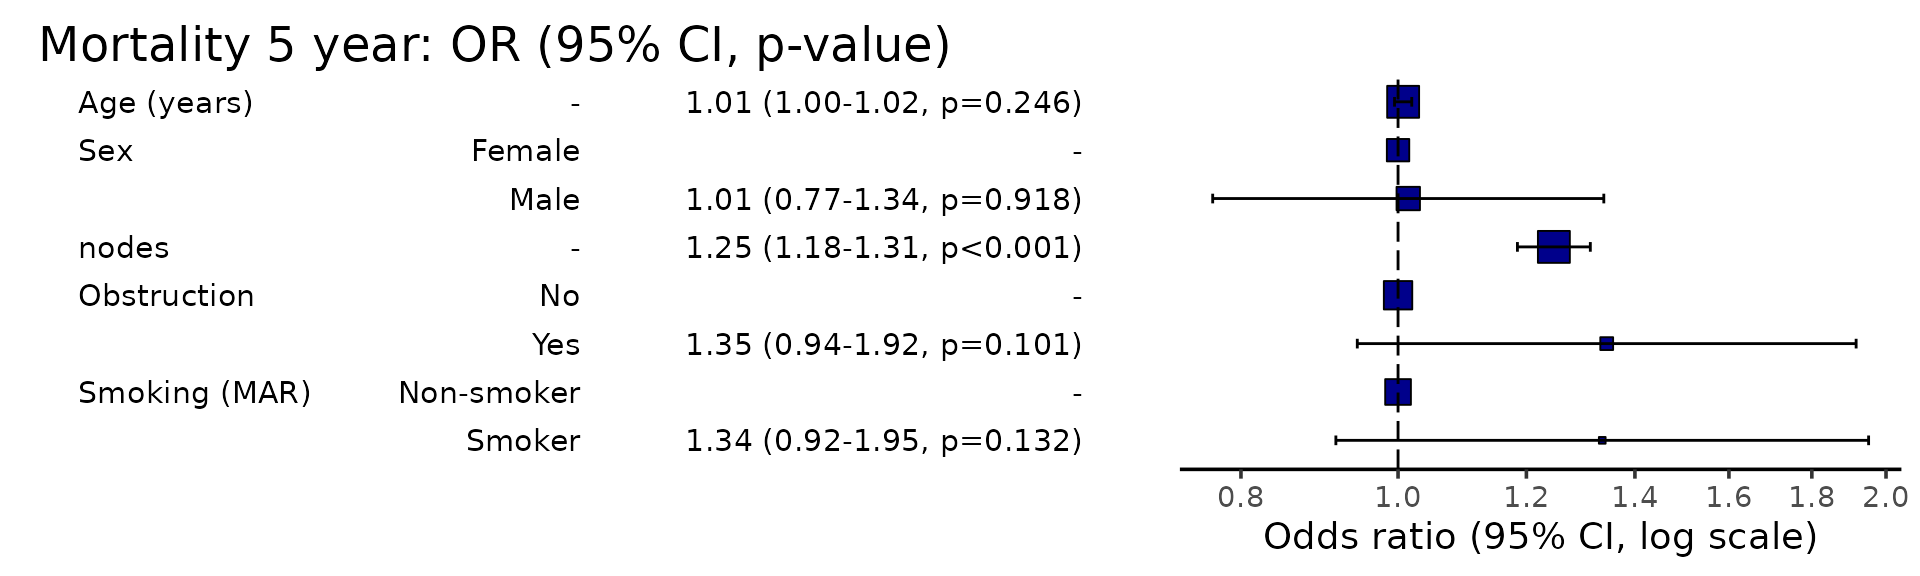
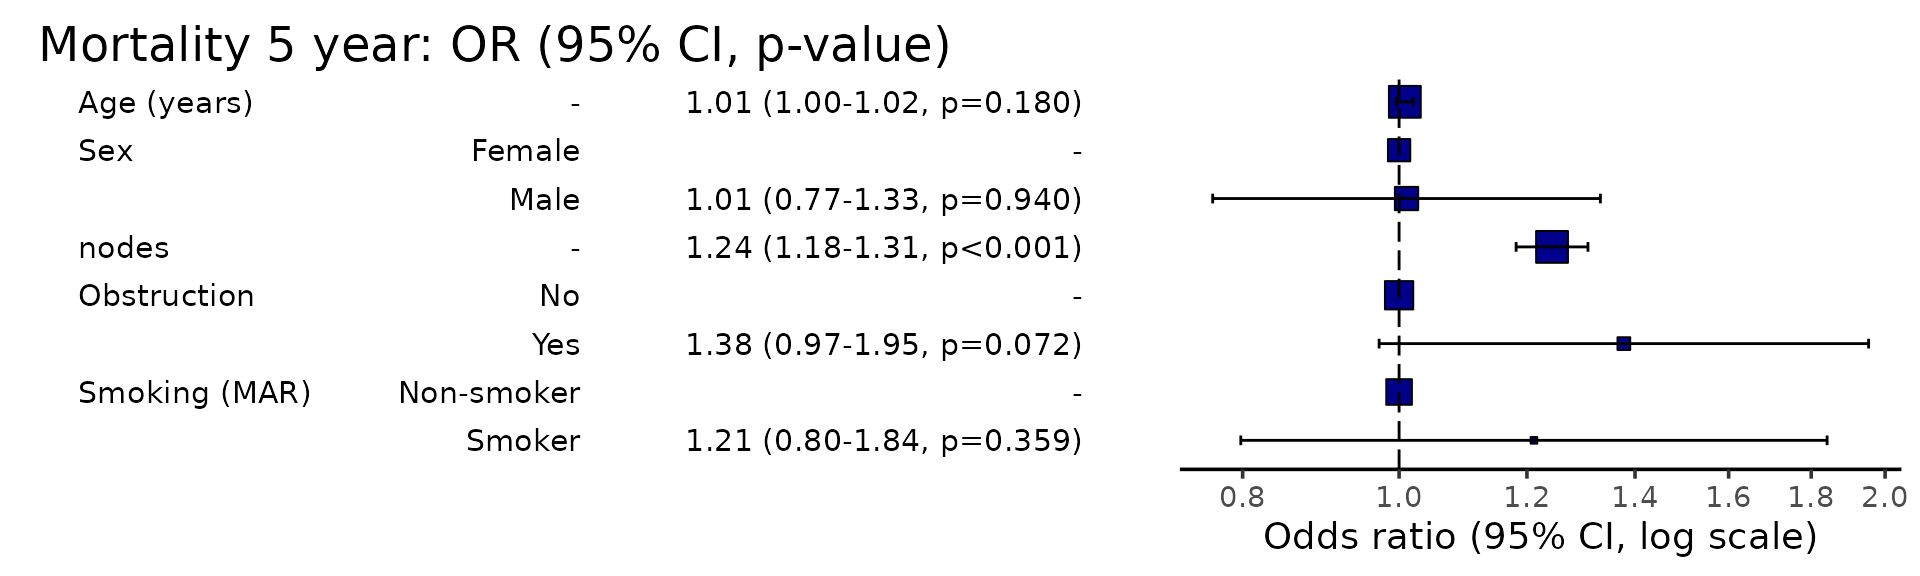
Web update

diff --git a/docs/articles/missing.html b/docs/articles/missing.html
@@ -633,45 +633,51 @@
   <span class="st">"nodes"</span>, <span class="st">"obstruct.factor"</span>, <span class="st">"smoking_mar"</span><span class="op">)</span>
 <span class="va">dependent</span> <span class="op">=</span> <span class="st">"mort_5yr"</span>
 
-<span class="co"># Choose not to impute missing values</span>
-<span class="co"># for explanatory variable of interest and</span>
-<span class="co"># outcome variable. </span>
-<span class="co"># But include in algorithm for imputation.</span>
+<span class="co"># Choose whether to impute missing values</span>
+<span class="co"># from particular variables, e.g. explanatory variable of interest</span>
+<span class="co"># or outcome variable. </span>
+<span class="co"># Outcome often imputed as best practice, dropped here for demonstration. </span>
 <span class="va">colon_s</span> <span class="op"><a href="../reference/pipe.html">%&gt;%</a></span> 
     <span class="fu"><a href="https://dplyr.tidyverse.org/reference/select.html" class="external-link">select</a></span><span class="op">(</span><span class="va">dependent</span>, <span class="va">explanatory</span><span class="op">)</span> <span class="op"><a href="../reference/pipe.html">%&gt;%</a></span> 
     <span class="fu"><a href="../reference/missing_predictorMatrix.html">missing_predictorMatrix</a></span><span class="op">(</span>
-        drop_from_imputed <span class="op">=</span> <span class="fu"><a href="https://rdrr.io/r/base/c.html" class="external-link">c</a></span><span class="op">(</span><span class="st">"obstruct.factor"</span>, <span class="st">"mort_5yr"</span><span class="op">)</span>
+        drop_from_imputed <span class="op">=</span> <span class="fu"><a href="https://rdrr.io/r/base/c.html" class="external-link">c</a></span><span class="op">(</span><span class="st">"mort_5yr"</span><span class="op">)</span>,
+        drop_from_imputer <span class="op">=</span> <span class="st">""</span>
         <span class="op">)</span> <span class="op">-&gt;</span> <span class="va">predM</span>
+
+<span class="co"># This is needed to drop from imputed</span>
+<span class="va">m0</span> <span class="op">=</span> <span class="fu"><a href="https://amices.org/mice/reference/mice.html" class="external-link">mice</a></span><span class="op">(</span><span class="va">colon_s</span> <span class="op"><a href="../reference/pipe.html">%&gt;%</a></span> 
+            <span class="fu"><a href="https://dplyr.tidyverse.org/reference/select.html" class="external-link">select</a></span><span class="op">(</span><span class="va">dependent</span>, <span class="va">explanatory</span><span class="op">)</span>, maxit<span class="op">=</span><span class="fl">0</span><span class="op">)</span>
+<span class="va">m0</span><span class="op">$</span><span class="va">method</span><span class="op">[</span><span class="fu"><a href="https://rdrr.io/r/base/c.html" class="external-link">c</a></span><span class="op">(</span><span class="st">"mort_5yr"</span><span class="op">)</span><span class="op">]</span> <span class="op">=</span> <span class="st">""</span>
 
 <span class="va">fits</span> <span class="op">=</span> <span class="va">colon_s</span> <span class="op"><a href="../reference/pipe.html">%&gt;%</a></span> 
   <span class="fu"><a href="https://dplyr.tidyverse.org/reference/select.html" class="external-link">select</a></span><span class="op">(</span><span class="va">dependent</span>, <span class="va">explanatory</span><span class="op">)</span> <span class="op"><a href="../reference/pipe.html">%&gt;%</a></span> 
   <span class="co"># Usually run imputation with 10 imputed sets, 4 here for demonstration</span>
-  <span class="fu"><a href="https://amices.org/mice/reference/mice.html" class="external-link">mice</a></span><span class="op">(</span>m <span class="op">=</span> <span class="fl">4</span>, predictorMatrix <span class="op">=</span> <span class="va">predM</span><span class="op">)</span> <span class="op"><a href="../reference/pipe.html">%&gt;%</a></span> 
+  <span class="fu"><a href="https://amices.org/mice/reference/mice.html" class="external-link">mice</a></span><span class="op">(</span>m <span class="op">=</span> <span class="fl">4</span>, predictorMatrix <span class="op">=</span> <span class="va">predM</span>, method <span class="op">=</span> <span class="va">m0</span><span class="op">$</span><span class="va">method</span><span class="op">)</span> <span class="op"><a href="../reference/pipe.html">%&gt;%</a></span> 
   <span class="co"># Run logistic regression on each imputed set</span>
   <span class="fu"><a href="https://rdrr.io/r/base/with.html" class="external-link">with</a></span><span class="op">(</span><span class="fu"><a href="https://rdrr.io/r/stats/glm.html" class="external-link">glm</a></span><span class="op">(</span><span class="fu"><a href="https://rdrr.io/r/stats/formula.html" class="external-link">formula</a></span><span class="op">(</span><span class="fu"><a href="../reference/ff_formula.html">ff_formula</a></span><span class="op">(</span><span class="va">dependent</span>, <span class="va">explanatory</span><span class="op">)</span><span class="op">)</span>, 
     family<span class="op">=</span><span class="st">"binomial"</span><span class="op">)</span><span class="op">)</span>
 <span class="co">#&gt; </span>
 <span class="co">#&gt;  iter imp variable</span>
-<span class="co">#&gt;   1   1  mort_5yr  nodes  obstruct.factor  smoking_mar</span>
-<span class="co">#&gt;   1   2  mort_5yr  nodes  obstruct.factor  smoking_mar</span>
-<span class="co">#&gt;   1   3  mort_5yr  nodes  obstruct.factor  smoking_mar</span>
-<span class="co">#&gt;   1   4  mort_5yr  nodes  obstruct.factor  smoking_mar</span>
-<span class="co">#&gt;   2   1  mort_5yr  nodes  obstruct.factor  smoking_mar</span>
-<span class="co">#&gt;   2   2  mort_5yr  nodes  obstruct.factor  smoking_mar</span>
-<span class="co">#&gt;   2   3  mort_5yr  nodes  obstruct.factor  smoking_mar</span>
-<span class="co">#&gt;   2   4  mort_5yr  nodes  obstruct.factor  smoking_mar</span>
-<span class="co">#&gt;   3   1  mort_5yr  nodes  obstruct.factor  smoking_mar</span>
-<span class="co">#&gt;   3   2  mort_5yr  nodes  obstruct.factor  smoking_mar</span>
-<span class="co">#&gt;   3   3  mort_5yr  nodes  obstruct.factor  smoking_mar</span>
-<span class="co">#&gt;   3   4  mort_5yr  nodes  obstruct.factor  smoking_mar</span>
-<span class="co">#&gt;   4   1  mort_5yr  nodes  obstruct.factor  smoking_mar</span>
-<span class="co">#&gt;   4   2  mort_5yr  nodes  obstruct.factor  smoking_mar</span>
-<span class="co">#&gt;   4   3  mort_5yr  nodes  obstruct.factor  smoking_mar</span>
-<span class="co">#&gt;   4   4  mort_5yr  nodes  obstruct.factor  smoking_mar</span>
-<span class="co">#&gt;   5   1  mort_5yr  nodes  obstruct.factor  smoking_mar</span>
-<span class="co">#&gt;   5   2  mort_5yr  nodes  obstruct.factor  smoking_mar</span>
-<span class="co">#&gt;   5   3  mort_5yr  nodes  obstruct.factor  smoking_mar</span>
-<span class="co">#&gt;   5   4  mort_5yr  nodes  obstruct.factor  smoking_mar</span>
+<span class="co">#&gt;   1   1  nodes  obstruct.factor  smoking_mar</span>
+<span class="co">#&gt;   1   2  nodes  obstruct.factor  smoking_mar</span>
+<span class="co">#&gt;   1   3  nodes  obstruct.factor  smoking_mar</span>
+<span class="co">#&gt;   1   4  nodes  obstruct.factor  smoking_mar</span>
+<span class="co">#&gt;   2   1  nodes  obstruct.factor  smoking_mar</span>
+<span class="co">#&gt;   2   2  nodes  obstruct.factor  smoking_mar</span>
+<span class="co">#&gt;   2   3  nodes  obstruct.factor  smoking_mar</span>
+<span class="co">#&gt;   2   4  nodes  obstruct.factor  smoking_mar</span>
+<span class="co">#&gt;   3   1  nodes  obstruct.factor  smoking_mar</span>
+<span class="co">#&gt;   3   2  nodes  obstruct.factor  smoking_mar</span>
+<span class="co">#&gt;   3   3  nodes  obstruct.factor  smoking_mar</span>
+<span class="co">#&gt;   3   4  nodes  obstruct.factor  smoking_mar</span>
+<span class="co">#&gt;   4   1  nodes  obstruct.factor  smoking_mar</span>
+<span class="co">#&gt;   4   2  nodes  obstruct.factor  smoking_mar</span>
+<span class="co">#&gt;   4   3  nodes  obstruct.factor  smoking_mar</span>
+<span class="co">#&gt;   4   4  nodes  obstruct.factor  smoking_mar</span>
+<span class="co">#&gt;   5   1  nodes  obstruct.factor  smoking_mar</span>
+<span class="co">#&gt;   5   2  nodes  obstruct.factor  smoking_mar</span>
+<span class="co">#&gt;   5   3  nodes  obstruct.factor  smoking_mar</span>
+<span class="co">#&gt;   5   4  nodes  obstruct.factor  smoking_mar</span>
 
 <span class="co"># Examples of extracting metrics from fits</span>
 <span class="co">## AICs</span>
@@ -679,32 +685,32 @@
     <span class="fu"><a href="https://amices.org/mice/reference/getfit.html" class="external-link">getfit</a></span><span class="op">(</span><span class="op">)</span> <span class="op"><a href="../reference/pipe.html">%&gt;%</a></span> 
     <span class="fu">purrr</span><span class="fu">::</span><span class="fu"><a href="https://purrr.tidyverse.org/reference/map.html" class="external-link">map</a></span><span class="op">(</span><span class="va">AIC</span><span class="op">)</span>
 <span class="co">#&gt; [[1]]</span>
-<span class="co">#&gt; [1] 1185.452</span>
+<span class="co">#&gt; [1] 1172.373</span>
 <span class="co">#&gt; </span>
 <span class="co">#&gt; [[2]]</span>
-<span class="co">#&gt; [1] 1187.907</span>
+<span class="co">#&gt; [1] 1170.95</span>
 <span class="co">#&gt; </span>
 <span class="co">#&gt; [[3]]</span>
-<span class="co">#&gt; [1] 1184.212</span>
+<span class="co">#&gt; [1] 1168.909</span>
 <span class="co">#&gt; </span>
 <span class="co">#&gt; [[4]]</span>
-<span class="co">#&gt; [1] 1191.826</span>
+<span class="co">#&gt; [1] 1172.158</span>
 
 <span class="co"># C-statistic</span>
 <span class="va">fits</span> <span class="op"><a href="../reference/pipe.html">%&gt;%</a></span> 
     <span class="fu"><a href="https://amices.org/mice/reference/getfit.html" class="external-link">getfit</a></span><span class="op">(</span><span class="op">)</span> <span class="op"><a href="../reference/pipe.html">%&gt;%</a></span> 
     <span class="fu">purrr</span><span class="fu">::</span><span class="fu"><a href="https://purrr.tidyverse.org/reference/map.html" class="external-link">map</a></span><span class="op">(</span><span class="op">~</span> <span class="fu">pROC</span><span class="fu">::</span><span class="fu"><a href="https://rdrr.io/pkg/pROC/man/roc.html" class="external-link">roc</a></span><span class="op">(</span><span class="va">.x</span><span class="op">$</span><span class="va">y</span>, <span class="va">.x</span><span class="op">$</span><span class="va">fitted</span><span class="op">)</span><span class="op">$</span><span class="va">auc</span><span class="op">)</span>
 <span class="co">#&gt; [[1]]</span>
-<span class="co">#&gt; Area under the curve: 0.6896</span>
+<span class="co">#&gt; Area under the curve: 0.6841</span>
 <span class="co">#&gt; </span>
 <span class="co">#&gt; [[2]]</span>
-<span class="co">#&gt; Area under the curve: 0.6856</span>
+<span class="co">#&gt; Area under the curve: 0.6864</span>
 <span class="co">#&gt; </span>
 <span class="co">#&gt; [[3]]</span>
-<span class="co">#&gt; Area under the curve: 0.6874</span>
+<span class="co">#&gt; Area under the curve: 0.6847</span>
 <span class="co">#&gt; </span>
 <span class="co">#&gt; [[4]]</span>
-<span class="co">#&gt; Area under the curve: 0.6825</span>
+<span class="co">#&gt; Area under the curve: 0.6839</span>
 
   
 <span class="co"># Pool  results</span>
@@ -777,7 +783,7 @@
 <td align="right">1.00 (0.99-1.01, p=0.986)</td>
 <td align="right">1.01 (1.00-1.02, p=0.122)</td>
 <td align="right">1.02 (1.00-1.03, p=0.010)</td>
-<td align="right">1.01 (1.00-1.02, p=0.246)</td>
+<td align="right">1.01 (1.00-1.02, p=0.180)</td>
 </tr>
 <tr class="even">
 <td align="left">Sex</td>
@@ -797,7 +803,7 @@
 <td align="right">0.98 (0.76-1.27, p=0.889)</td>
 <td align="right">0.98 (0.74-1.30, p=0.890)</td>
 <td align="right">0.88 (0.64-1.23, p=0.461)</td>
-<td align="right">1.01 (0.77-1.34, p=0.918)</td>
+<td align="right">1.01 (0.77-1.33, p=0.940)</td>
 </tr>
 <tr class="even">
 <td align="left">nodes</td>
@@ -807,7 +813,7 @@
 <td align="right">1.24 (1.18-1.30, p&lt;0.001)</td>
 <td align="right">1.25 (1.19-1.32, p&lt;0.001)</td>
 <td align="right">1.25 (1.18-1.33, p&lt;0.001)</td>
-<td align="right">1.25 (1.18-1.31, p&lt;0.001)</td>
+<td align="right">1.24 (1.18-1.31, p&lt;0.001)</td>
 </tr>
 <tr class="odd">
 <td align="left">Obstruction</td>
@@ -827,7 +833,7 @@
 <td align="right">1.25 (0.90-1.74, p=0.189)</td>
 <td align="right">1.36 (0.95-1.93, p=0.089)</td>
 <td align="right">1.26 (0.85-1.88, p=0.252)</td>
-<td align="right">1.35 (0.94-1.92, p=0.101)</td>
+<td align="right">1.38 (0.97-1.95, p=0.072)</td>
 </tr>
 <tr class="odd">
 <td align="left">Smoking (MAR)</td>
@@ -847,7 +853,7 @@
 <td align="right">1.12 (0.76-1.65, p=0.563)</td>
 <td align="right">-</td>
 <td align="right">1.25 (0.82-1.89, p=0.300)</td>
-<td align="right">1.34 (0.92-1.95, p=0.132)</td>
+<td align="right">1.21 (0.80-1.84, p=0.359)</td>
 </tr>
 </tbody>
 </table>

diff --git a/docs/reference/summary_factorlist_stratified.html b/docs/reference/summary_factorlist_stratified.html
@@ -135,12 +135,30 @@ Stratify a <code><a href="summary_factorlist.html">summary_factorlist</a></code>
 <span class="r-in"><span class="co"># Single split</span></span>
 <span class="r-in"><span class="va">colon_s</span> <span class="op"><a href="pipe.html">%&gt;%</a></span></span>
 <span class="r-in">  <span class="fu">summary_factorlist_stratified</span><span class="op">(</span><span class="va">dependent</span>, <span class="va">explanatory</span>, split <span class="op">=</span> <span class="fu"><a href="https://rdrr.io/r/base/c.html" class="external-link">c</a></span><span class="op">(</span><span class="st">"sex.factor"</span><span class="op">)</span><span class="op">)</span></span>
-<span class="r-err co"><span class="r-pr">#&gt;</span> <span class="error">Error in summary_factorlist_stratified(., dependent, explanatory, split = c("sex.factor")):</span> object 'explanatory' not found</span>
+<span class="r-out co"><span class="r-pr">#&gt;</span>        label    levels   No|Female  Yes|Female     No|Male    Yes|Male</span>
+<span class="r-out co"><span class="r-pr">#&gt;</span>  Age (years) Mean (SD) 59.5 (12.3) 60.2 (10.2) 60.1 (11.5) 56.7 (15.8)</span>
+<span class="r-out co"><span class="r-pr">#&gt;</span>  Obstruction        No  334 (78.8)   12 (92.3)  381 (83.4)    5 (35.7)</span>
+<span class="r-out co"><span class="r-pr">#&gt;</span>                    Yes   90 (21.2)     1 (7.7)   76 (16.6)    9 (64.3)</span>
 <span class="r-in"></span>
 <span class="r-in"><span class="co"># Double split</span></span>
 <span class="r-in"><span class="va">colon_s</span> <span class="op"><a href="pipe.html">%&gt;%</a></span></span>
 <span class="r-in"> <span class="fu">summary_factorlist_stratified</span><span class="op">(</span><span class="va">dependent</span>, <span class="va">explanatory</span>, split <span class="op">=</span> <span class="fu"><a href="https://rdrr.io/r/base/c.html" class="external-link">c</a></span><span class="op">(</span><span class="st">"sex.factor"</span>, <span class="st">"age.factor"</span><span class="op">)</span><span class="op">)</span></span>
-<span class="r-err co"><span class="r-pr">#&gt;</span> <span class="error">Error in summary_factorlist_stratified(., dependent, explanatory, split = c("sex.factor",     "age.factor")):</span> object 'explanatory' not found</span>
+<span class="r-out co"><span class="r-pr">#&gt;</span>        label    levels No|Female|&lt;40 years Yes|Female|&lt;40 years</span>
+<span class="r-out co"><span class="r-pr">#&gt;</span>  Age (years) Mean (SD)          34.3 (4.5)                     </span>
+<span class="r-out co"><span class="r-pr">#&gt;</span>  Obstruction        No           26 (68.4)              0 (NaN)</span>
+<span class="r-out co"><span class="r-pr">#&gt;</span>                    Yes           12 (31.6)              0 (NaN)</span>
+<span class="r-out co"><span class="r-pr">#&gt;</span>  No|Female|40-59 year Yes|Female|40-59 year No|Female|60+ years</span>
+<span class="r-out co"><span class="r-pr">#&gt;</span>            52.0 (5.5)            51.7 (4.8)          68.7 (5.5)</span>
+<span class="r-out co"><span class="r-pr">#&gt;</span>            123 (77.8)              5 (83.3)          185 (81.1)</span>
+<span class="r-out co"><span class="r-pr">#&gt;</span>             35 (22.2)              1 (16.7)           43 (18.9)</span>
+<span class="r-out co"><span class="r-pr">#&gt;</span>  Yes|Female|60+ years No|Male|&lt;40 years Yes|Male|&lt;40 years No|Male|40-59 year</span>
+<span class="r-out co"><span class="r-pr">#&gt;</span>            67.4 (7.6)        34.6 (4.6)         28.5 (2.1)         52.1 (5.5)</span>
+<span class="r-out co"><span class="r-pr">#&gt;</span>             7 (100.0)         21 (72.4)          2 (100.0)         137 (81.1)</span>
+<span class="r-out co"><span class="r-pr">#&gt;</span>               0 (0.0)          8 (27.6)            0 (0.0)          32 (18.9)</span>
+<span class="r-out co"><span class="r-pr">#&gt;</span>  Yes|Male|40-59 year No|Male|60+ years Yes|Male|60+ years</span>
+<span class="r-out co"><span class="r-pr">#&gt;</span>           47.8 (4.1)        68.2 (5.6)         68.2 (5.7)</span>
+<span class="r-out co"><span class="r-pr">#&gt;</span>              0 (0.0)        223 (86.1)           3 (37.5)</span>
+<span class="r-out co"><span class="r-pr">#&gt;</span>            4 (100.0)         36 (13.9)           5 (62.5)</span>
 </code></pre></div>
     </div>
   </div>

diff --git a/docs/articles/bootstrap.html b/docs/articles/bootstrap.html
@@ -159,10 +159,10 @@
     R<span class="op">=</span><span class="fl">100</span>, boot_compare <span class="op">=</span> <span class="cn">FALSE</span>,
     digits <span class="op">=</span> <span class="fu"><a href="https://rdrr.io/r/base/c.html" class="external-link">c</a></span><span class="op">(</span><span class="fl">2</span>,<span class="fl">3</span><span class="op">)</span><span class="op">)</span>
 <span class="co">#&gt;         Age    Extent of spread Perforation Predicted probability of death</span>
-<span class="co">#&gt; 1 &lt;40 years           Submucosa          No            0.28 (0.06 to 0.48)</span>
-<span class="co">#&gt; 2 &lt;40 years           Submucosa         Yes            0.29 (0.07 to 0.63)</span>
-<span class="co">#&gt; 3 &lt;40 years Adjacent structures          No            0.71 (0.53 to 0.88)</span>
-<span class="co">#&gt; 4 &lt;40 years Adjacent structures         Yes            0.72 (0.44 to 0.90)</span></code></pre></div>
+<span class="co">#&gt; 1 &lt;40 years           Submucosa          No            0.28 (0.02 to 0.53)</span>
+<span class="co">#&gt; 2 &lt;40 years           Submucosa         Yes            0.29 (0.04 to 0.54)</span>
+<span class="co">#&gt; 3 &lt;40 years Adjacent structures          No            0.71 (0.51 to 0.86)</span>
+<span class="co">#&gt; 4 &lt;40 years Adjacent structures         Yes            0.72 (0.48 to 0.88)</span></code></pre></div>
 <p>Note that the number of simulations (<code>R</code>) here is low for demonstration purposes. You should expect to use 1000 to 10000 to ensure you have stable estimates.</p>
 </div>
 <div class="section level2">
@@ -186,15 +186,15 @@
     <span class="co">#compare_name = "Absolute risk difference",</span>
     R<span class="op">=</span><span class="fl">100</span>, digits <span class="op">=</span> <span class="fu"><a href="https://rdrr.io/r/base/c.html" class="external-link">c</a></span><span class="op">(</span><span class="fl">2</span>,<span class="fl">3</span><span class="op">)</span><span class="op">)</span>
 <span class="co">#&gt;         Age    Extent of spread Perforation Predicted probability of death</span>
-<span class="co">#&gt; 1 &lt;40 years           Submucosa          No            0.28 (0.08 to 0.53)</span>
-<span class="co">#&gt; 2 &lt;40 years           Submucosa         Yes            0.29 (0.09 to 0.60)</span>
-<span class="co">#&gt; 3 &lt;40 years Adjacent structures          No            0.71 (0.53 to 0.85)</span>
-<span class="co">#&gt; 4 &lt;40 years Adjacent structures         Yes            0.72 (0.47 to 0.88)</span>
+<span class="co">#&gt; 1 &lt;40 years           Submucosa          No            0.28 (0.10 to 0.62)</span>
+<span class="co">#&gt; 2 &lt;40 years           Submucosa         Yes            0.29 (0.06 to 0.71)</span>
+<span class="co">#&gt; 3 &lt;40 years Adjacent structures          No            0.71 (0.53 to 0.88)</span>
+<span class="co">#&gt; 4 &lt;40 years Adjacent structures         Yes            0.72 (0.44 to 0.92)</span>
 <span class="co">#&gt;                      Difference</span>
 <span class="co">#&gt; 1                             -</span>
-<span class="co">#&gt; 2 0.02 (-0.12 to 0.18, p=0.720)</span>
-<span class="co">#&gt; 3  0.40 (0.19 to 0.66, p&lt;0.001)</span>
-<span class="co">#&gt; 4  0.43 (0.17 to 0.72, p&lt;0.001)</span></code></pre></div>
+<span class="co">#&gt; 2 0.01 (-0.14 to 0.21, p=0.940)</span>
+<span class="co">#&gt; 3  0.41 (0.10 to 0.66, p&lt;0.001)</span>
+<span class="co">#&gt; 4  0.43 (0.07 to 0.69, p&lt;0.001)</span></code></pre></div>
 </div>
 <div class="section level2">
 <h2 id="what-is-not-included">What is not included?<a class="anchor" aria-label="anchor" href="#what-is-not-included"></a>

diff --git a/docs/reference/boot_predict.html b/docs/reference/boot_predict.html
@@ -190,15 +190,15 @@ bootstrapped predictions under 1.0, multiplied by two so is two-sided.</p>
 <span class="r-in">  <span class="fu">boot_predict</span><span class="op">(</span><span class="va">newdata</span>, estimate_name <span class="op">=</span> <span class="st">"Predicted probability of death"</span>,</span>
 <span class="r-in">    compare_name <span class="op">=</span> <span class="st">"Absolute risk difference"</span>, R<span class="op">=</span><span class="fl">100</span>, digits <span class="op">=</span> <span class="fu"><a href="https://rdrr.io/r/base/c.html" class="external-link">c</a></span><span class="op">(</span><span class="fl">2</span>,<span class="fl">3</span><span class="op">)</span><span class="op">)</span></span>
 <span class="r-out co"><span class="r-pr">#&gt;</span>         Age    Extent of spread Perforation Predicted probability of death</span>
-<span class="r-out co"><span class="r-pr">#&gt;</span> 1 &lt;40 years           Submucosa          No            0.28 (0.06 to 0.51)</span>
-<span class="r-out co"><span class="r-pr">#&gt;</span> 2 &lt;40 years           Submucosa         Yes            0.29 (0.04 to 0.56)</span>
-<span class="r-out co"><span class="r-pr">#&gt;</span> 3 &lt;40 years Adjacent structures          No            0.71 (0.49 to 0.86)</span>
-<span class="r-out co"><span class="r-pr">#&gt;</span> 4 &lt;40 years Adjacent structures         Yes            0.72 (0.41 to 0.87)</span>
+<span class="r-out co"><span class="r-pr">#&gt;</span> 1 &lt;40 years           Submucosa          No            0.28 (0.05 to 0.52)</span>
+<span class="r-out co"><span class="r-pr">#&gt;</span> 2 &lt;40 years           Submucosa         Yes            0.29 (0.03 to 0.54)</span>
+<span class="r-out co"><span class="r-pr">#&gt;</span> 3 &lt;40 years Adjacent structures          No            0.71 (0.47 to 0.86)</span>
+<span class="r-out co"><span class="r-pr">#&gt;</span> 4 &lt;40 years Adjacent structures         Yes            0.72 (0.41 to 0.86)</span>
 <span class="r-out co"><span class="r-pr">#&gt;</span>        Absolute risk difference</span>
 <span class="r-out co"><span class="r-pr">#&gt;</span> 1                             -</span>
-<span class="r-out co"><span class="r-pr">#&gt;</span> 2 0.01 (-0.12 to 0.13, p=0.860)</span>
-<span class="r-out co"><span class="r-pr">#&gt;</span> 3  0.42 (0.16 to 0.62, p=0.020)</span>
-<span class="r-out co"><span class="r-pr">#&gt;</span> 4  0.43 (0.16 to 0.67, p=0.040)</span>
+<span class="r-out co"><span class="r-pr">#&gt;</span> 2 0.00 (-0.12 to 0.19, p=0.960)</span>
+<span class="r-out co"><span class="r-pr">#&gt;</span> 3  0.45 (0.23 to 0.66, p&lt;0.001)</span>
+<span class="r-out co"><span class="r-pr">#&gt;</span> 4  0.43 (0.17 to 0.69, p&lt;0.001)</span>
 <span class="r-in"></span>
 <span class="r-in"><span class="co"># Plotting</span></span>
 <span class="r-in"><span class="va">explanatory</span> <span class="op">=</span> <span class="fu"><a href="https://rdrr.io/r/base/c.html" class="external-link">c</a></span><span class="op">(</span><span class="st">"nodes"</span>, <span class="st">"extent.factor"</span>, <span class="st">"perfor.factor"</span><span class="op">)</span></span>

diff --git a/docs/articles/all_tables_examples.html b/docs/articles/all_tables_examples.html
@@ -2563,8 +2563,7 @@
 <span class="co">#&gt; Note: Using an external vector in selections is ambiguous.</span>
 <span class="co">#&gt; <span style="color: #0000BB;">ℹ</span> Use `all_of(dependent)` instead of `dependent` to silence this message.</span>
 <span class="co">#&gt; <span style="color: #0000BB;">ℹ</span> See &lt;https://tidyselect.r-lib.org/reference/faq-external-vector.html&gt;.</span>
-<span class="co">#&gt; <span style="color: #555555;">This message is displayed once per session.</span></span>
-<span class="co">#&gt; Note: Using an external vector in selections is ambiguous.</span>
+<span class="co">#&gt; <span style="color: #555555;">This message is displayed once per session.</span>Note: Using an external vector in selections is ambiguous.</span>
 <span class="co">#&gt; <span style="color: #0000BB;">ℹ</span> Use `all_of(explanatory)` instead of `explanatory` to silence this message.</span>
 <span class="co">#&gt; <span style="color: #0000BB;">ℹ</span> See &lt;https://tidyselect.r-lib.org/reference/faq-external-vector.html&gt;.</span>
 <span class="co">#&gt; <span style="color: #555555;">This message is displayed once per session.</span></span></code></pre></div>
@@ -6077,16 +6076,16 @@
 <td align="left">40-59 years</td>
 <td align="right">208 (40.7)</td>
 <td align="right">131 (32.4)</td>
-<td align="right">0.54 (0.31-0.93, p=0.027)</td>
-<td align="right">0.57 (0.32-0.98, p=0.044)</td>
+<td align="right">0.45 (0.26-0.76, p=0.003)</td>
+<td align="right">0.48 (0.27-0.82, p=0.008)</td>
 </tr>
 <tr class="odd">
 <td align="left"></td>
 <td align="left">60+ years</td>
 <td align="right">272 (53.2)</td>
 <td align="right">237 (58.7)</td>
-<td align="right">0.74 (0.43-1.25, p=0.265)</td>
-<td align="right">0.80 (0.46-1.36, p=0.407)</td>
+<td align="right">0.70 (0.41-1.18, p=0.178)</td>
+<td align="right">0.76 (0.44-1.29, p=0.311)</td>
 </tr>
 <tr class="even">
 <td align="left">Sex</td>
@@ -6101,8 +6100,8 @@
 <td align="left">Male</td>
 <td align="right">268 (52.4)</td>
 <td align="right">210 (52.0)</td>
-<td align="right">0.86 (0.66-1.12, p=0.268)</td>
-<td align="right">0.88 (0.68-1.15, p=0.364)</td>
+<td align="right">0.92 (0.71-1.20, p=0.539)</td>
+<td align="right">0.93 (0.71-1.22, p=0.602)</td>
 </tr>
 <tr class="even">
 <td align="left">Obstruction</td>
@@ -6117,8 +6116,8 @@
 <td align="left">Yes</td>
 <td align="right">89 (17.9)</td>
 <td align="right">85 (21.4)</td>
-<td align="right">1.38 (1.00-1.91, p=0.053)</td>
-<td align="right">1.38 (0.99-1.91, p=0.056)</td>
+<td align="right">1.43 (1.03-1.98, p=0.035)</td>
+<td align="right">1.49 (1.07-2.09, p=0.020)</td>
 </tr>
 <tr class="even">
 <td align="left">Perforation</td>
@@ -6133,8 +6132,8 @@
 <td align="left">Yes</td>
 <td align="right">14 (2.7)</td>
 <td align="right">13 (3.2)</td>
-<td align="right">1.18 (0.56-2.49, p=0.661)</td>
-<td align="right">1.13 (0.53-2.41, p=0.744)</td>
+<td align="right">0.78 (0.36-1.63, p=0.520)</td>
+<td align="right">0.74 (0.34-1.57, p=0.445)</td>
 </tr>
 </tbody>
 </table>

diff --git a/docs/reference/fit2df.html b/docs/reference/fit2df.html
@@ -493,11 +493,11 @@ implemented for <code>lm, coxph or coxphlist</code>.</p></dd>
 <span class="r-in">  <span class="fu"><a href="glmmulti_boot.html">glmmulti_boot</a></span><span class="op">(</span><span class="va">dependent</span>, <span class="va">explanatory</span>,  R <span class="op">=</span> <span class="fl">100</span><span class="op">)</span> <span class="op"><a href="pipe.html">%&gt;%</a></span></span>
 <span class="r-in">  <span class="fu">fit2df</span><span class="op">(</span>estimate_suffix<span class="op">=</span><span class="st">" (multivariable (BS CIs))"</span><span class="op">)</span></span>
 <span class="r-out co"><span class="r-pr">#&gt;</span>             explanatory OR (multivariable (BS CIs))</span>
-<span class="r-out co"><span class="r-pr">#&gt;</span> 1 age.factor40-59 years   0.57 (0.31-1.14, p=0.060)</span>
-<span class="r-out co"><span class="r-pr">#&gt;</span> 2   age.factor60+ years   0.81 (0.40-1.29, p=0.460)</span>
-<span class="r-out co"><span class="r-pr">#&gt;</span> 3        sex.factorMale   0.98 (0.67-1.28, p=0.920)</span>
-<span class="r-out co"><span class="r-pr">#&gt;</span> 4    obstruct.factorYes   1.25 (0.92-1.73, p=0.200)</span>
-<span class="r-out co"><span class="r-pr">#&gt;</span> 5      perfor.factorYes   1.12 (0.43-3.00, p=0.760)</span>
+<span class="r-out co"><span class="r-pr">#&gt;</span> 1 age.factor40-59 years   0.57 (0.31-0.99, p=0.020)</span>
+<span class="r-out co"><span class="r-pr">#&gt;</span> 2   age.factor60+ years   0.81 (0.45-1.42, p=0.480)</span>
+<span class="r-out co"><span class="r-pr">#&gt;</span> 3        sex.factorMale   0.98 (0.74-1.31, p=0.920)</span>
+<span class="r-out co"><span class="r-pr">#&gt;</span> 4    obstruct.factorYes   1.25 (0.90-1.79, p=0.180)</span>
+<span class="r-out co"><span class="r-pr">#&gt;</span> 5      perfor.factorYes   1.12 (0.46-3.08, p=0.820)</span>
 <span class="r-in"></span>
 <span class="r-in"><span class="co"># lm</span></span>
 <span class="r-in"><span class="va">fit</span> <span class="op">=</span> <span class="fu"><a href="https://rdrr.io/r/stats/lm.html" class="external-link">lm</a></span><span class="op">(</span><span class="va">nodes</span> <span class="op">~</span>  <span class="va">age.factor</span> <span class="op">+</span> <span class="va">sex.factor</span> <span class="op">+</span> <span class="va">obstruct.factor</span> <span class="op">+</span> <span class="va">perfor.factor</span>,</span>

diff --git a/docs/articles/data_prep.html b/docs/articles/data_prep.html
@@ -127,11 +127,9 @@
 
 <span class="co"># Read data</span>
 <span class="va">melanoma</span> <span class="op">=</span> <span class="fu"><a href="https://readr.tidyverse.org/reference/read_delim.html" class="external-link">read_csv</a></span><span class="op">(</span><span class="st">"boot.csv"</span><span class="op">)</span>
-<span class="co">#&gt; <span style="font-weight: bold;">Rows: </span><span style="color: #0000BB;">205</span> <span style="font-weight: bold;">Columns: </span><span style="color: #0000BB;">7</span></span>
-<span class="co">#&gt; <span style="color: #00BBBB;">──</span> <span style="font-weight: bold;">Column specification</span> <span style="color: #00BBBB;">────────────────────────────────────────────────────────</span></span>
+<span class="co">#&gt; <span style="font-weight: bold;">Rows: </span><span style="color: #0000BB;">205</span> <span style="font-weight: bold;">Columns: </span><span style="color: #0000BB;">7</span><span style="color: #00BBBB;">──</span> <span style="font-weight: bold;">Column specification</span> <span style="color: #00BBBB;">────────────────────────────────────────────────────────</span></span>
 <span class="co">#&gt; <span style="font-weight: bold;">Delimiter:</span> ","</span>
 <span class="co">#&gt; <span style="color: #00BB00;">dbl</span> (7): time, status, sex, age, year, thickness, ulcer</span>
-<span class="co">#&gt; </span>
 <span class="co">#&gt; <span style="color: #00BBBB;">ℹ</span> Use <span style="color: #262626; background-color: #DADADA;">`spec()`</span> to retrieve the full column specification for this data.</span>
 <span class="co">#&gt; <span style="color: #00BBBB;">ℹ</span> Specify the column types or set <span style="color: #262626; background-color: #DADADA;">`show_col_types = FALSE`</span> to quiet this message.</span></code></pre></div>
 </div>

diff --git a/docs/reference/glmmulti_boot.html b/docs/reference/glmmulti_boot.html
@@ -146,11 +146,11 @@ intervals on fixed effect model coefficients. Output can be passed to
 <span class="r-in">  <span class="fu">glmmulti_boot</span><span class="op">(</span><span class="va">dependent</span>, <span class="va">explanatory</span>, R<span class="op">=</span><span class="fl">100</span><span class="op">)</span> <span class="op"><a href="pipe.html">%&gt;%</a></span></span>
 <span class="r-in">  <span class="fu"><a href="fit2df.html">fit2df</a></span><span class="op">(</span>estimate_suffix<span class="op">=</span><span class="st">"(multivariable (BS CIs))"</span><span class="op">)</span></span>
 <span class="r-out co"><span class="r-pr">#&gt;</span>             explanatory OR(multivariable (BS CIs))</span>
-<span class="r-out co"><span class="r-pr">#&gt;</span> 1 age.factor40-59 years  0.57 (0.32-0.89, p=0.040)</span>
-<span class="r-out co"><span class="r-pr">#&gt;</span> 2   age.factor60+ years  0.81 (0.39-1.27, p=0.360)</span>
-<span class="r-out co"><span class="r-pr">#&gt;</span> 3        sex.factorMale  0.98 (0.75-1.31, p=0.980)</span>
-<span class="r-out co"><span class="r-pr">#&gt;</span> 4    obstruct.factorYes  1.25 (0.85-1.71, p=0.080)</span>
-<span class="r-out co"><span class="r-pr">#&gt;</span> 5      perfor.factorYes  1.12 (0.50-2.77, p=0.840)</span>
+<span class="r-out co"><span class="r-pr">#&gt;</span> 1 age.factor40-59 years  0.57 (0.34-1.01, p=0.060)</span>
+<span class="r-out co"><span class="r-pr">#&gt;</span> 2   age.factor60+ years  0.81 (0.46-1.40, p=0.320)</span>
+<span class="r-out co"><span class="r-pr">#&gt;</span> 3        sex.factorMale  0.98 (0.73-1.33, p=0.880)</span>
+<span class="r-out co"><span class="r-pr">#&gt;</span> 4    obstruct.factorYes  1.25 (0.92-1.81, p=0.180)</span>
+<span class="r-out co"><span class="r-pr">#&gt;</span> 5      perfor.factorYes  1.12 (0.23-2.71, p=0.920)</span>
 <span class="r-in"></span>
 </code></pre></div>
     </div>

diff --git a/docs/index.html b/docs/index.html
@@ -216,6 +216,7 @@
 <ul class="list-unstyled">
 <li><a href="https://cran.r-project.org/package=finalfit" class="external-link"><img src="https://www.r-pkg.org/badges/version/finalfit" alt="CRAN_Status_Badge"></a></li>
 <li><a href="https://cran.r-project.org/package=finalfit" class="external-link"><img src="https://cranlogs.r-pkg.org/badges/finalfit" alt="CRAN_Status_Badge"></a></li>
+<li><a href="https://cranlogs.r-pkg.org/badges/grand-total/finalfit" class="external-link"><img src="https://cranlogs.r-pkg.org/badges/grand-total/finalfit" alt="CRAN_Status_Badge"></a></li>
 <li><a href="https://app.travis-ci.com/github/ewenharrison/finalfit" class="external-link"><img src="https://api.travis-ci.com/ewenharrison/finalfit.svg?branch=master" alt="TravisCRAN_Status_Badge"></a></li>
 <li><a href="https://ci.appveyor.com/project/ewenharrison/finalfit" class="external-link"><img src="https://ci.appveyor.com/api/projects/status/3wpgw2rs6vn1lsrn?svg=true" alt="Build status"></a></li>
 <li><a href="https://codecov.io/github/ewenharrison/finalfit?branch=master" class="external-link"><img src="https://codecov.io/gh/ewenharrison/finalfit/branch/master/graph/badge.svg" alt="Coverage status"></a></li>

diff --git a/docs/news/index.html b/docs/news/index.html
@@ -77,7 +77,7 @@
 
     <div class="section level2">
 <h2 class="page-header" data-toc-text="1.0.5" id="finalfit-105">finalfit 1.0.5<a class="anchor" aria-label="anchor" href="#finalfit-105"></a></h2>
-<ul><li>formula interface added to finalfit()<code>and</code>summary_factorlist()`.</li>
+<ul><li>formula interface added to <code><a href="../reference/finalfit.html">finalfit()</a></code> and <code><a href="../reference/summary_factorlist.html">summary_factorlist()</a></code>.</li>
 </ul></div>
     <div class="section level2">
 <h2 class="page-header" data-toc-text="1.0.4" id="finalfit-104">finalfit 1.0.4<small>2021-12-05</small><a class="anchor" aria-label="anchor" href="#finalfit-104"></a></h2>

diff --git a/README.md b/README.md
@@ -1,5 +1,6 @@
 [![CRAN_Status_Badge](https://www.r-pkg.org/badges/version/finalfit)](https://cran.r-project.org/package=finalfit)
 [![CRAN_Status_Badge](https://cranlogs.r-pkg.org/badges/finalfit)](https://cran.r-project.org/package=finalfit)
+[![CRAN_Status_Badge](https://cranlogs.r-pkg.org/badges/grand-total/finalfit)](https://cranlogs.r-pkg.org/badges/grand-total/finalfit)
 [![TravisCRAN_Status_Badge](https://api.travis-ci.com/ewenharrison/finalfit.svg?branch=master)](https://app.travis-ci.com/github/ewenharrison/finalfit)
 [![Build status](https://ci.appveyor.com/api/projects/status/3wpgw2rs6vn1lsrn?svg=true)](https://ci.appveyor.com/project/ewenharrison/finalfit)
 [![Coverage status](https://codecov.io/gh/ewenharrison/finalfit/branch/master/graph/badge.svg)](https://codecov.io/github/ewenharrison/finalfit?branch=master)

diff --git a/NEWS.md b/NEWS.md
@@ -1,5 +1,5 @@
 # finalfit 1.0.5
-* formula interface added to finalfit()` and `summary_factorlist()`. 
+* formula interface added to `finalfit()` and `summary_factorlist()`. 
 
 # finalfit 1.0.4
 * `missing_plot()` bugs fixed, many thanks @nathansam. #72
